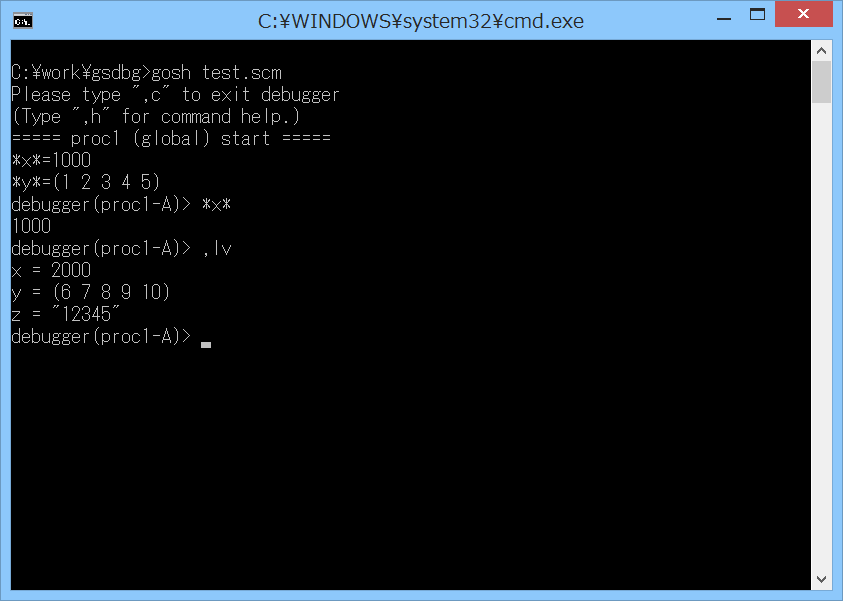
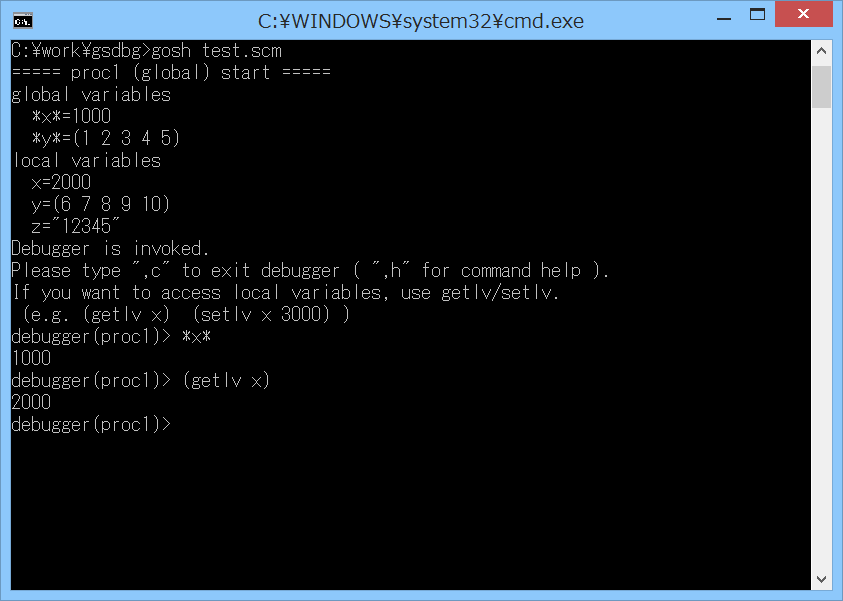
src chg v2.00

diff --git a/README.md b/README.md
@@ -17,42 +17,42 @@
   デバッガを起動したい箇所に gsdbg 手続きを記述してください。  
   gsdbg 手続きの書式は以下の通りです。
 
-  - `(gsdbg [prompt-add] [local-vars] [ret-val])`  
+  - `(gsdbg [:pa prompt-add] [:lv local-vars] [:rv ret-val])`  
     デバッガを起動します。
 
-    - 第1引数の prompt-add には、プロンプトに追加で表示する文字列を指定します。  
+    - キーワード引数 :pa の prompt-add には、プロンプトに追加で表示する文字列を指定します。  
       (デバッガを起動した位置が分かるような文字列を指定することを想定しています)  
-      prompt-add に #f を指定すると、プロンプトに文字列を追加しません。  
-      prompt-add は省略可能です。省略した場合は、#f を指定したことになります。
+      このキーワード引数に #f を指定すると、プロンプトに文字列を追加しません。  
+      このキーワード引数を指定しなかった場合には、#f を指定したことになります。
 
-    - 第2引数の local-vars には、ローカル変数の名前と値の組を、  
-      '((name1 value1) ...) のようにリストのリストで指定します。  
+    - キーワード引数 :lv の local-vars には、ローカル変数の名前を、  
+      (x y z) のようなリストで指定します (リストのクォートは不要です)。  
       現状、デバッガは、ローカル環境を認識することができません。  
-      このため、デバッガ内でローカル変数を参照したい場合には、  
-      本引数でユーザが明示的に指定する必要があります。  
-      本引数で指定したローカル変数は、後述の ,locvar コマンドまたは getlv 手続きで参照可能です。  
-      (ただし、デバッガ内でローカル変数の値を変更することはできません)  
-      local-vars に #f を指定すると、ローカル変数の指定なしになります。  
-      local-vars は省略可能です。省略した場合は、#f を指定したことになります。
+      このため、デバッガ内でローカル変数にアクセスしたい場合には、  
+      本引数で明示的に指定する必要があります。  
+      本引数で指定したローカル変数の内容は、後述の ,locvar コマンドで表示可能です。  
+      また、getlv / setlv 手続きで内容の参照と更新が可能です。  
+      このキーワード引数に #f を指定すると、ローカル変数の指定なしになります。  
+      このキーワード引数を指定しなかった場合には、#f を指定したことになります。
 
-    - 第3引数の ret-val には、デバッガの戻り値を指定します。  
-      ret-val は省略可能です。省略した場合は、#f を指定したことになります。  
+    - キーワード引数 :rv の ret-val には、デバッガの戻り値を指定します。  
+      このキーワード引数を指定しなかった場合には、#f を指定したことになります。  
       (現状、多値を返すことはできません)
 
     - ＜例1＞  
       ```
       (use gsdbg)
       (let ((x 100) (y 200))
-        (gsdbg "test1" `((x ,x) (y ,y))))
+        (gsdbg :pa "test1" :lv (x y)))
       ```
       デバッガを起動し、  
       プロンプトに "test1" という文字列を追加し、また、  
-      ローカル変数の x と y を、,locvar コマンドで参照可能にします。
+      ローカル変数の x と y を、,locvar コマンドで表示可能にします。
 
     - ＜例2＞  
       ```
       (use gsdbg)
-      (guard (e (else (report-error e) (gsdbg "err1")))
+      (guard (e (else (report-error e) (gsdbg :pa "err1")))
         (/ 1 0))
       ```
       エラー発生時にデバッガを起動します。
@@ -83,7 +83,7 @@
     現在選択中のモジュール (カレントモジュール) を切り換えます。  
     引数には、モジュール名を指定します。  
     引数を省略した場合には、user モジュールが選択されます。  
-    (モジュールの内部のグローバル変数を参照したい場合には、  
+    (モジュールの内部のグローバル変数を参照/更新したい場合には、  
     本コマンドで、モジュールを切り換えてください)
 
   - `,locvar [name1 name2 ...]` または `,lv [name1 name2 ...]`  
@@ -109,9 +109,20 @@
     (ただし、gsdbg 手続きが完全に消える訳ではありません)
 
   - `(getlv name)`  
-    デバッガが認識しているローカル変数の値を返します。  
+    デバッガが認識しているローカル変数の値を取得します。  
     引数には、ローカル変数の名前を指定してください。  
-    ローカル変数は、gsdbg 手続きの local-vars で指定したもののみ指定可能です。
+    ローカル変数は、gsdbg 手続きの :lv キーワード引数で指定したもののみ指定可能です。
+
+  - `(setlv name value)`  
+    デバッガが認識しているローカル変数の値を設定します。  
+    (厳密には、デバッガの終了時に設定されます)  
+    引数には、ローカル変数の名前と新しい値を指定してください。  
+    ローカル変数は、gsdbg 手続きの :lv キーワード引数で指定したもののみ指定可能です。
+
+  - `(retval value)`  
+    デバッガの戻り値を設定します。  
+    引数を省略した場合には、現在の設定内容を表示します。  
+    (現状、多値を返すことはできません)
 
 
 ## 制限事項
@@ -122,7 +133,7 @@
   - 動的にブレークポイントを設定できない
   - ステップ実行ができない
   - ローカル環境が見られない  
-    → 暫定対策として、gsdbg 手続きにローカル変数の組を引数として渡せるようにした
+    → 暫定対策として、gsdbg 手続きの引数にローカル変数のリストを渡せるようにした
   - マルチスレッド非対応
 
 
@@ -136,6 +147,7 @@
 - OS
   - Windows 8.1 (64bit)
 - 言語
+  - Gauche v0.9.9
   - Gauche v0.9.8
   - Gauche v0.9.7
 
@@ -156,6 +168,8 @@
 - 2019-11-1  v1.09 ,locvarコマンドのエラーチェック追加
 - 2019-11-1  v1.10 gsdbg手続きの戻り値の処理見直し
 - 2019-11-3  v1.11 ,retコマンドを,retval(または,rv)コマンドに名称変更(過去との互換性なし)
+- 2020-3-20  v2.00 gsdbg手続きの引数をキーワード引数に変更(過去との互換性なし)  
+  setlv,retval手続きを追加
 
 
-(2019-11-3)
+(2020-3-20)
